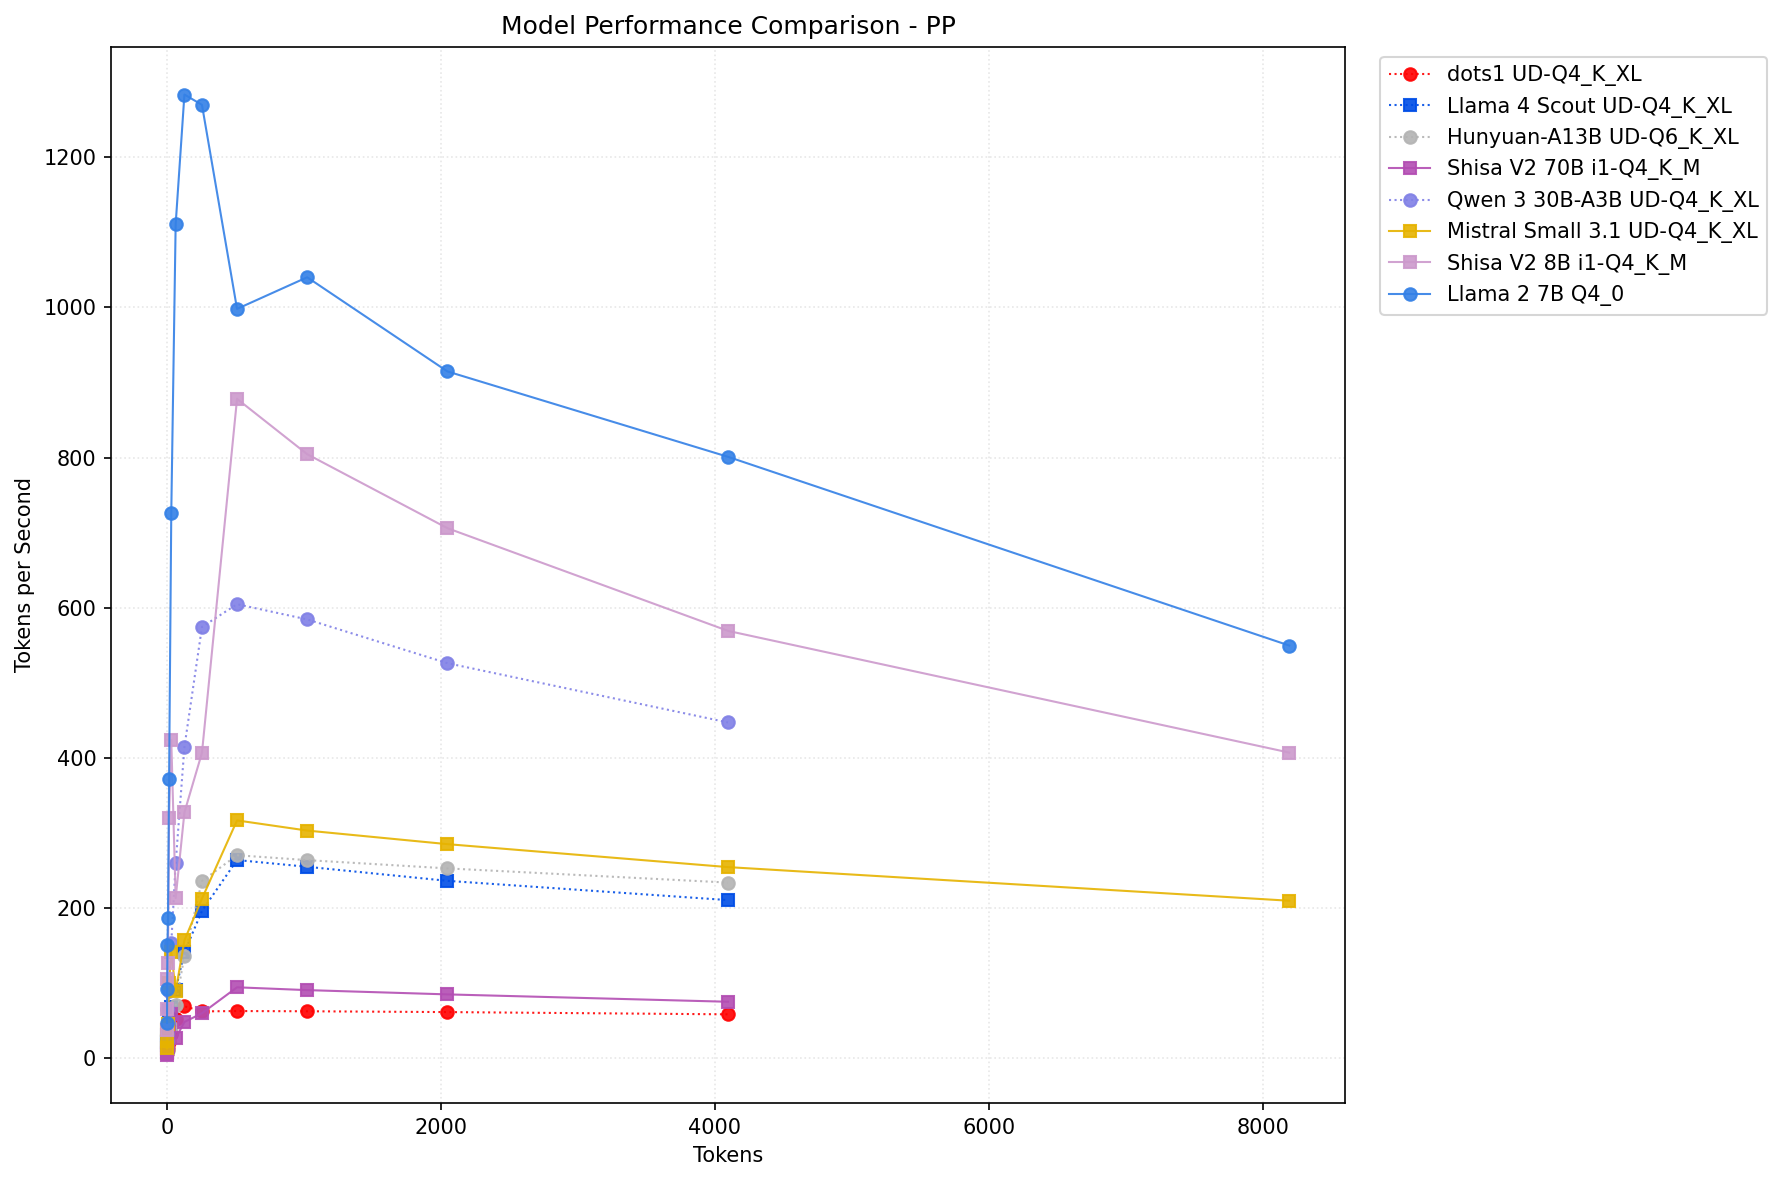
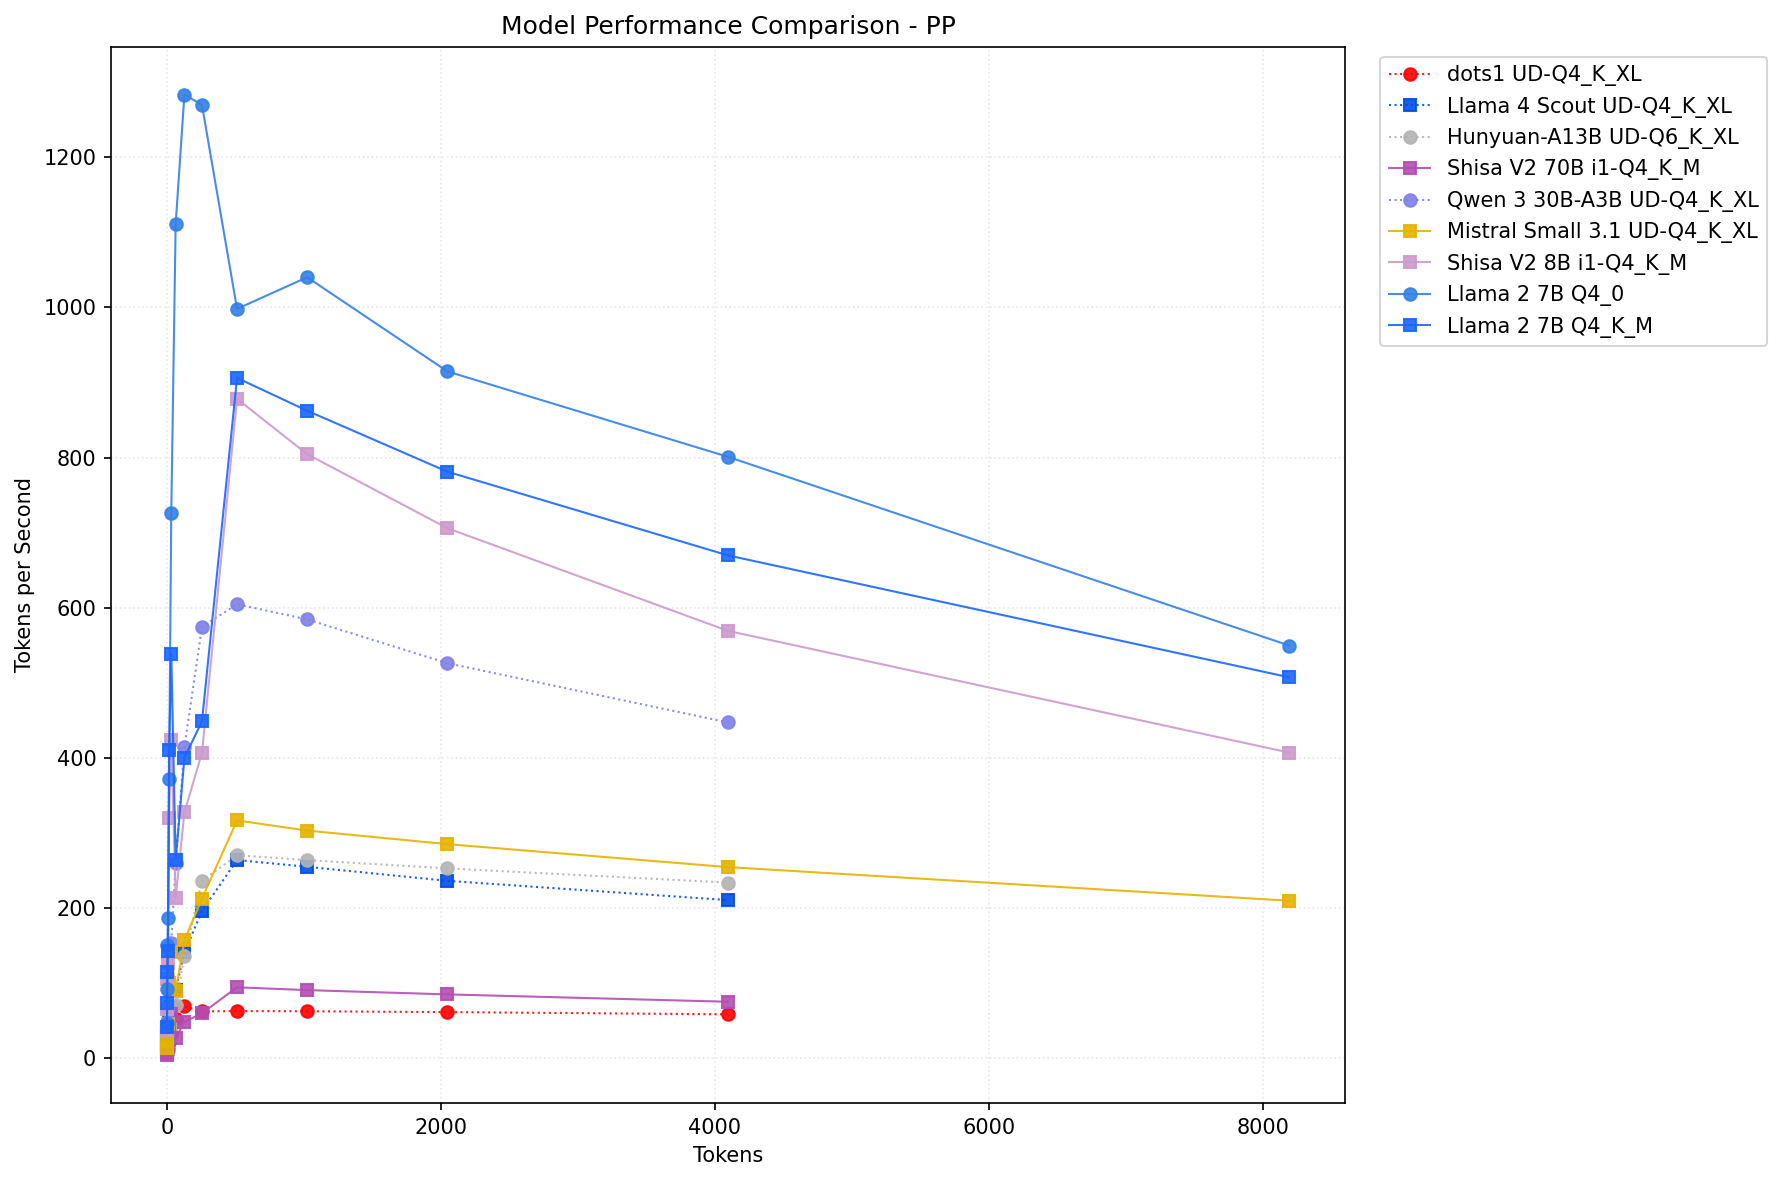
added 7B Q4_K_M results

diff --git a/llm-bench/README.md b/llm-bench/README.md
@@ -20,6 +20,7 @@ Just to get a ballpark on the hardware:
 | Model Name                   | Architecture   |   Weights (B) |   Active (B) | Backend     | Flags      |   pp512 |   tg128 |   Memory (Max MiB) |
 |------------------------------|----------------|---------------|--------------|-------------|------------|---------|---------|--------------------|
 | Llama 2 7B Q4_0              | Llama 2        |             7 |            7 | Vulkan      |            |   998.0 |  1283.4 |               8646 |
+| Llama 2 7B Q4_K_M            | Llama 2        |             7 |            7 | HIP         | hipBLASLt  |   906.1 |   400.4 |              11025 |
 | Shisa V2 8B i1-Q4_K_M        | Llama 3        |             8 |            8 | HIP         | hipBLASLt  |   878.2 |   327.6 |               8344 |
 | Qwen 3 30B-A3B UD-Q4_K_XL    | Qwen 3 MoE     |            30 |            3 | Vulkan      | fa=1       |   604.8 |   414.6 |              17874 |
 | Mistral Small 3.1 UD-Q4_K_XL | Mistral 3      |            24 |           24 | HIP         | hipBLASLt  |   316.9 |   157.2 |              16090 |
@@ -34,6 +35,7 @@ Just to get a ballpark on the hardware:
 | Model Name                   | Architecture   |   Weights (B) |   Active (B) | Backend   | Flags      |   pp512 |   tg128 |   Memory (Max MiB) |
 |------------------------------|----------------|---------------|--------------|-----------|------------|---------|---------|--------------------|
 | Qwen 3 30B-A3B UD-Q4_K_XL    | Qwen 3 MoE     |            30 |            3 | Vulkan    | b=256      |    70.0 |    72.0 |              17719 |
+| Llama 2 7B Q4_K_M            | Llama 2        |             7 |            7 | Vulkan    | fa=1       |    47.1 |    47.9 |               8324 |
 | Llama 2 7B Q4_0              | Llama 2        |             7 |            7 | Vulkan    | fa=1       |    45.3 |    45.8 |               8080 |
 | Shisa V2 8B i1-Q4_K_M        | Llama 3        |             8 |            8 | Vulkan    | fa=1       |    41.9 |    42.0 |               6308 |
 | dots1 UD-Q4_K_XL             | dots1 MoE      |           142 |           14 | Vulkan    | fa=1 b=256 |    20.4 |    20.6 |              87557 |
@@ -41,6 +43,7 @@ Just to get a ballpark on the hardware:
 | Hunyuan-A13B UD-Q6_K_XL      | Hunyuan MoE    |            80 |           13 | Vulkan    | fa=1 b=256 |    17.1 |    17.1 |              69064 |
 | Mistral Small 3.1 UD-Q4_K_XL | Mistral 3      |            24 |           24 | Vulkan    | fa=1       |    14.3 |    14.3 |              15755 |
 | Shisa V2 70B i1-Q4_K_M       | Llama 3        |            70 |           70 | Vulkan    | fa=1       |     5.0 |     5.0 |              42583 |
+
 
 ## Testing Notes
 The best overall backend and flags were chosen for each model family tested. You can see that often times the best backend for prefill vs token generation differ. Full results for each model (including the pp/tg graphs for different context lengths for all tested backend variations) are available for review in their respective folders as which backend is the best performing will depend on your exact use-case.
